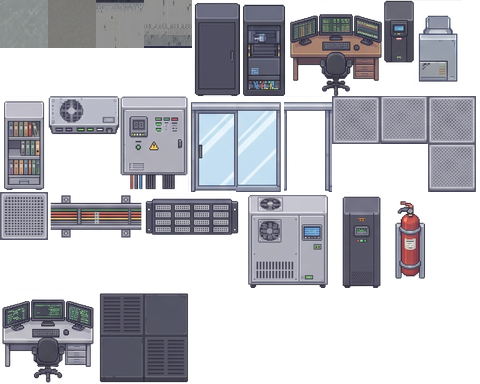
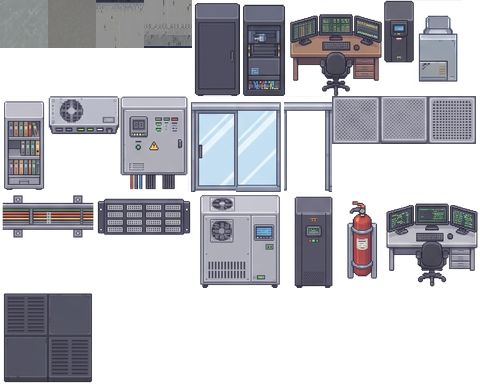
Fix colo room walk issues

Changed region(s): [[0.0, 0.5, 1.0, 0.75], [0.0, 0.75, 0.4062, 1.0], [0.875, 0.25, 1.0, 0.5]]

diff --git a/src/ui/world/World.tsx b/src/ui/world/World.tsx
@@ -225,9 +225,15 @@ export function World() {
       {Array.from({ length: Math.min(unread, 3) }, (_, i) => <rect key={i} className="w-letter" x={5 + i * 4} y={2 + i} width="10" height="9" rx="0.5" />)}
       <rect className="w-slot" x="5" y="8" width="18" height="3" rx="1.5" />
     </>,
-    xconnect: carriers.map((c, i) => <text key={c} className="w-carrier" x={4 + (i % 3) * 30} y={i < 3 ? 6 : 47}>{c}</text>),
   };
   const beside: Record<string, (f: Fixture) => ReactNode> = {
+    // Carrier labels on a plate beside the panel, one per line.
+    xconnect: (f) => carriers.length > 0 && (
+      <g transform={`translate(${(f.x + (f.w ?? 1)) * T + 2} ${-T - 28})`}>
+        <rect className="w-plate" width="42" height={carriers.length * 7 + 3} rx="1.5" />
+        {carriers.map((c, i) => <text key={c} className="w-carrier" x="3" y={7 + i * 7}>{c}</text>)}
+      </g>
+    ),
     fan: (f) => (
       <Sprite name="weather" x={f.x * T + 4} y={-8}>
         <g transform="translate(4 6)">{SKY[sky(loc.city, game.hour)]}</g>
@@ -283,12 +289,12 @@ export function World() {
           {coldAisles(loc).map((a) => <rect key={a.y} fill="url(#w-grate)" x={a.x0 * T} y={a.y * T} width={(a.x1 - a.x0 + 1) * T} height={T} />)}
           {walls.trays && Array.from({ length: Math.ceil(w / 2) }, (_, i) => <Sprite key={i} name="tray" x={i * 2 * T} y={-2 * T + 40} />)}
         </g>
-        {back}
         {Array.from({ length: w * h }, (_, i) => {
           const x = i % w, y = Math.floor(i / w);
           return <rect key={i} className="w-tile" x={x * T} y={y * T} width={T} height={T} onPointerEnter={() => setHover({ x, y })} onClick={click(() => walk([{ x, y }]))} />;
         })}
         {hover && <rect className="w-cursor" x={hover.x * T + 2} y={hover.y * T + 2} width={T - 4} height={T - 4} rx="4" />}
+        {back}
         {things.map((x) => x.node)}
       </svg>
     </div>

diff --git a/src/sim/20-world/layout.ts b/src/sim/20-world/layout.ts
@@ -21,13 +21,13 @@ const ROOMS: Record<SpaceKind, Room> = {
   },
   share: {
     size: { w: 8, h: 6 },
-    fixtures: { shelf: { x: 0, y: 1 }, extinguisher: { x: 0, y: 3 }, door: { x: 0, y: 4, kind: "cage-door" }, xconnect: { x: 2, y: 0, w: 2 }, cooling: { x: 5, y: 0, w: 2 } },
+    fixtures: { shelf: { x: 0, y: 1 }, extinguisher: { x: 0, y: 3 }, door: { x: 0, y: 4 }, xconnect: { x: 2, y: 0, w: 2 }, cooling: { x: 5, y: 0, w: 2 } },
     rows: [{ y: 2, x0: 2, x1: 5, facing: "s" }],
   },
   cage: {
     size: { w: 12, h: 8 },
     fixtures: {
-      shelf: { x: 0, y: 1 }, pdu: { x: 0, y: 2 }, extinguisher: { x: 0, y: 4 }, door: { x: 0, y: 5, kind: "cage-door" },
+      shelf: { x: 0, y: 1 }, pdu: { x: 11, y: 3 }, extinguisher: { x: 0, y: 4 }, door: { x: 0, y: 5 },
       xconnect: { x: 2, y: 0, w: 2 }, cooling: { x: 7, y: 0, w: 2 }, cooling2: { x: 9, y: 0, w: 2, kind: "cooling" },
     },
     rows: [{ y: 2, x0: 2, x1: 9, facing: "s" }, { y: 4, x0: 2, x1: 9, facing: "n" }],
@@ -35,8 +35,8 @@ const ROOMS: Record<SpaceKind, Room> = {
   suite: {
     size: { w: 16, h: 11 },
     fixtures: {
-      shelf: { x: 0, y: 1 }, pdu: { x: 0, y: 2 }, extinguisher: { x: 0, y: 7 }, door: { x: 0, y: 8, kind: "cage-door" },
-      xconnect: { x: 2, y: 0, w: 2 }, noc: { x: 4, y: 0, w: 2 }, cooling: { x: 7, y: 0, w: 2 }, cooling2: { x: 9, y: 0, w: 2, kind: "cooling" },
+      shelf: { x: 0, y: 1 }, pdu: { x: 15, y: 3 }, extinguisher: { x: 0, y: 7 }, door: { x: 0, y: 8 },
+      xconnect: { x: 2, y: 0, w: 2 }, noc: { x: 5, y: 0, w: 2 }, cooling: { x: 7, y: 0, w: 2 }, cooling2: { x: 9, y: 0, w: 2, kind: "cooling" },
       dock: { x: 12, y: 0, w: 2 },
     },
     rows: [

diff --git a/src/ui/world/rooms.ts b/src/ui/world/rooms.ts
@@ -5,7 +5,7 @@ import { T } from "./grid";
 export type Use = "desktop" | "storage" | "network" | "power" | "door" | "post" | "scan" | "none";
 
 // How a fixture kind is drawn and what using it does. dx and dy shift the sprite from the tile's bottom-left corner;
-// back ones hang on a wall and are drawn behind the floor, the rest are depth-sorted with racks and the player.
+// back ones hang on a wall and are drawn above the floor tiles but behind everything standing, the rest are depth-sorted with racks and the player.
 export interface FixtureArt { sprite: string; label: string; use?: Use; solid?: boolean; back?: boolean; dx?: number; dy?: number; depth?: number; frames?: string[] }
 
 export const ART: Record<string, FixtureArt> = {
@@ -18,7 +18,6 @@ export const ART: Record<string, FixtureArt> = {
   fan: { sprite: "fan", label: "world.obj.fan", back: true, dx: -12, dy: -2 * T + 2 },
   letterbox: { sprite: "letterbox", label: "world.obj.letterbox", use: "post", back: true, dx: 2, dy: -8 },
   door: { sprite: "door-closed", label: "world.obj.door", use: "door", back: true, frames: ["door-closed", "door-half", "door-open"] },
-  "cage-door": { sprite: "cage-door", label: "world.obj.door", use: "door", back: true },
   extinguisher: { sprite: "extinguisher", label: "world.obj.extinguisher", solid: true, back: true },
   xconnect: { sprite: "xconnect", label: "world.obj.xconnect", use: "network", back: true, dy: -T - 28 },
   cooling: { sprite: "cooling", label: "world.obj.cooling", solid: true },

diff --git a/src/ui/world/world.css b/src/ui/world/world.css
@@ -32,6 +32,7 @@
 .w-num { font-family: var(--font-ui); font-size: 8px; font-weight: 500; font-variant-numeric: tabular-nums; text-anchor: end; fill: oklch(0.95 0.02 220); }
 .w-num-dim { fill: oklch(0.75 0.03 220); }
 .w-num-tag { text-anchor: middle; paint-order: stroke; stroke: oklch(0.2 0.02 258); stroke-width: 2.5px; }
+.w-plate { fill: oklch(0.28 0.02 258); stroke: oklch(0.45 0.02 258); stroke-width: 0.75px; }
 .w-carrier { font-family: var(--font-ui); font-size: 4.5px; font-weight: 600; fill: oklch(0.95 0.02 220); paint-order: stroke; stroke: oklch(0.2 0.02 258); stroke-width: 1.5px; }
 .w-sun { fill: oklch(0.86 0.14 90); }
 .w-cloud { fill: oklch(0.9 0.01 250); }
